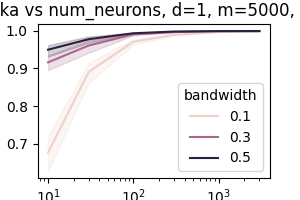
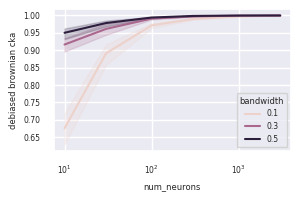
Plot updates

diff --git a/run.py b/run.py
@@ -21,6 +21,8 @@ comparators = {
     "regression_rotation": partial(regression_mse, procrustes=True),
 }
 
+sns.set_theme(font_scale=0.5)
+
 
 DEVICE = torch.device("cuda" if torch.cuda.is_available() else "cpu")
 
@@ -112,7 +114,7 @@ if __name__ == "__main__":
 
     if args.plot:
         with torch.no_grad():
-            fig, axs = plt.subplots(1, 2, figsize=(8, 4))
+            fig, axs = plt.subplots(1, 2, figsize=(6, 3))
             for kw in kwargs:
                 data_gen = data_gen_class(**kw)
                 z, x = plot_tuning(data_gen, ax=axs[0], label=str(unique_keys(kw, kwargs)))
@@ -127,6 +129,7 @@ if __name__ == "__main__":
             axs[1].set_title("Population covariance spectrum")
             axs[1].legend()
 
+            plt.tight_layout()
             plt.savefig(
                 f"plots/example_neurons_{args.mode}_{args.d}d_noise{args.poisson_scale}.png",
             )
@@ -188,10 +191,8 @@ if __name__ == "__main__":
 
         plt.figure(figsize=(3, 2))
         sns.lineplot(data=results_df, x=x_axis, y=comp_name, hue=hue_by)
-        plt.title(
-            f"{comp_name} vs {x_axis}, " + ", ".join(str(k) + "=" + str(v) for k, v in keys.items())
-        )
         plt.xscale("log")
+        plt.tight_layout()
         plt.savefig(
             f"plots/{args.mode}_{args.comparator}_vs_{x_axis}_"
             + "_".join(str(k) + str(v) for k, v in keys.items())

diff --git a/README.md b/README.md
@@ -35,7 +35,7 @@ as a _spike count_ from a poisson distribution with `rate = poisson_scale * f_i(
 
 ## Results (all using 1D latent and radial basis tuning)
 
-### Asymptotic behavior of each metric as number of trials (m) increases, noiseless case
+### Results vs m for n=1000, no noise
 
 ![](plots/radial_basis_procrustes_vs_m_d1_n1000_noisenone.png)
 ![](plots/radial_basis_linear_cka_vs_m_d1_n1000_noisenone.png)
@@ -44,7 +44,7 @@ as a _spike count_ from a poisson distribution with `rate = poisson_scale * f_i(
 ![](plots/radial_basis_debiased_brownian_cka_vs_m_d1_n1000_noisenone.png)
 ![](plots/radial_basis_regression_vs_m_d1_n1000_noisenone.png)
 
-### Asymptotic behavior of each metric as number of neurons (n) increases, noiseless case
+### Results vs n for m=5000, no noise
 
 ![](plots/radial_basis_procrustes_vs_n_d1_m5000_noisenone.png)
 ![](plots/radial_basis_linear_cka_vs_n_d1_m5000_noisenone.png)
@@ -53,7 +53,7 @@ as a _spike count_ from a poisson distribution with `rate = poisson_scale * f_i(
 ![](plots/radial_basis_debiased_brownian_cka_vs_n_d1_m5000_noisenone.png)
 ![](plots/radial_basis_regression_vs_n_d1_m5000_noisenone.png)
 
-### Asymptotic behavior of each metric as number of trials (m) increases, including poisson noise
+### Results vs m for n=1000, Poisson noise
 
 ![](plots/radial_basis_procrustes_vs_m_d1_n1000_noisePoisson(x50.0).png)
 ![](plots/radial_basis_linear_cka_vs_m_d1_n1000_noisePoisson(x50.0).png)
@@ -62,7 +62,7 @@ as a _spike count_ from a poisson distribution with `rate = poisson_scale * f_i(
 ![](plots/radial_basis_debiased_brownian_cka_vs_m_d1_n1000_noisePoisson(x50.0).png)
 ![](plots/radial_basis_regression_vs_m_d1_n1000_noisePoisson(x50.0).png)
 
-### Asymptotic behavior of each metric as number of neurons (n) increases, including poisson noise
+### Results vs n for m=5000, Poisson noise
 
 ![](plots/radial_basis_procrustes_vs_n_d1_m5000_noisePoisson(x50.0).png)
 ![](plots/radial_basis_linear_cka_vs_n_d1_m5000_noisePoisson(x50.0).png)
